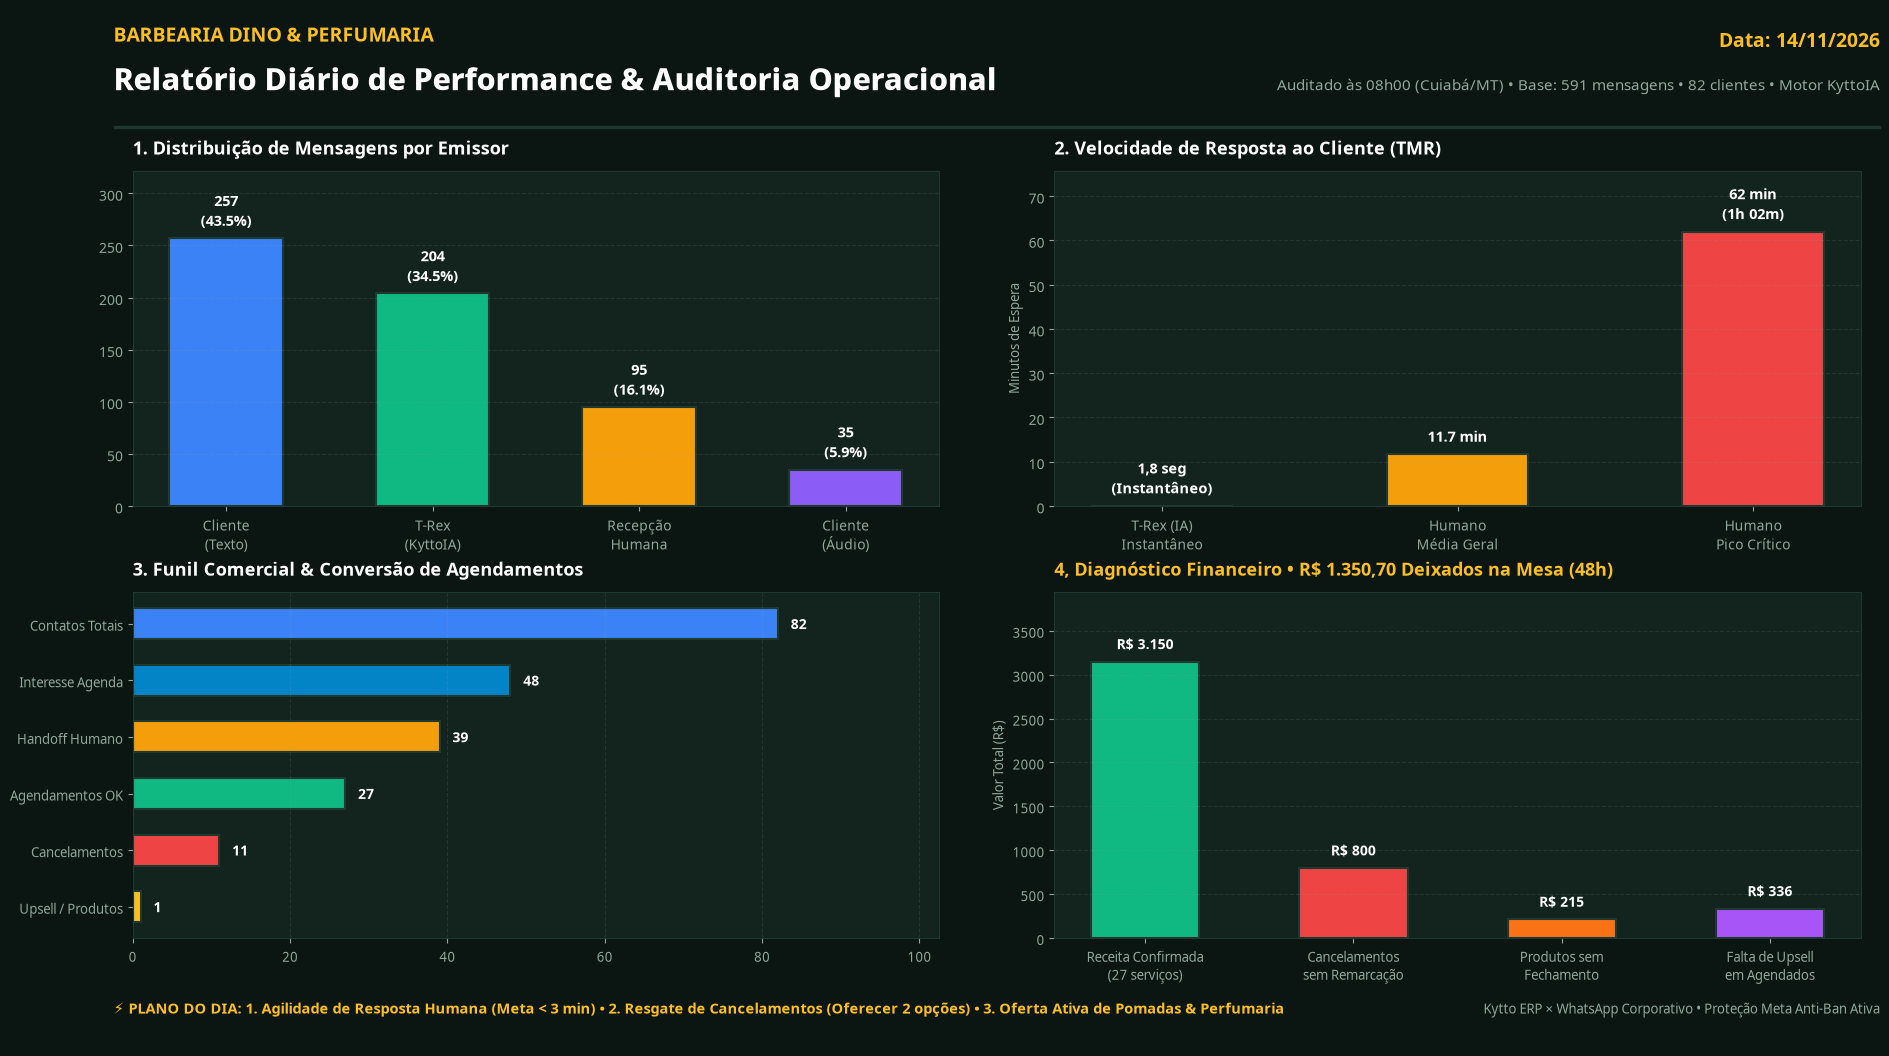
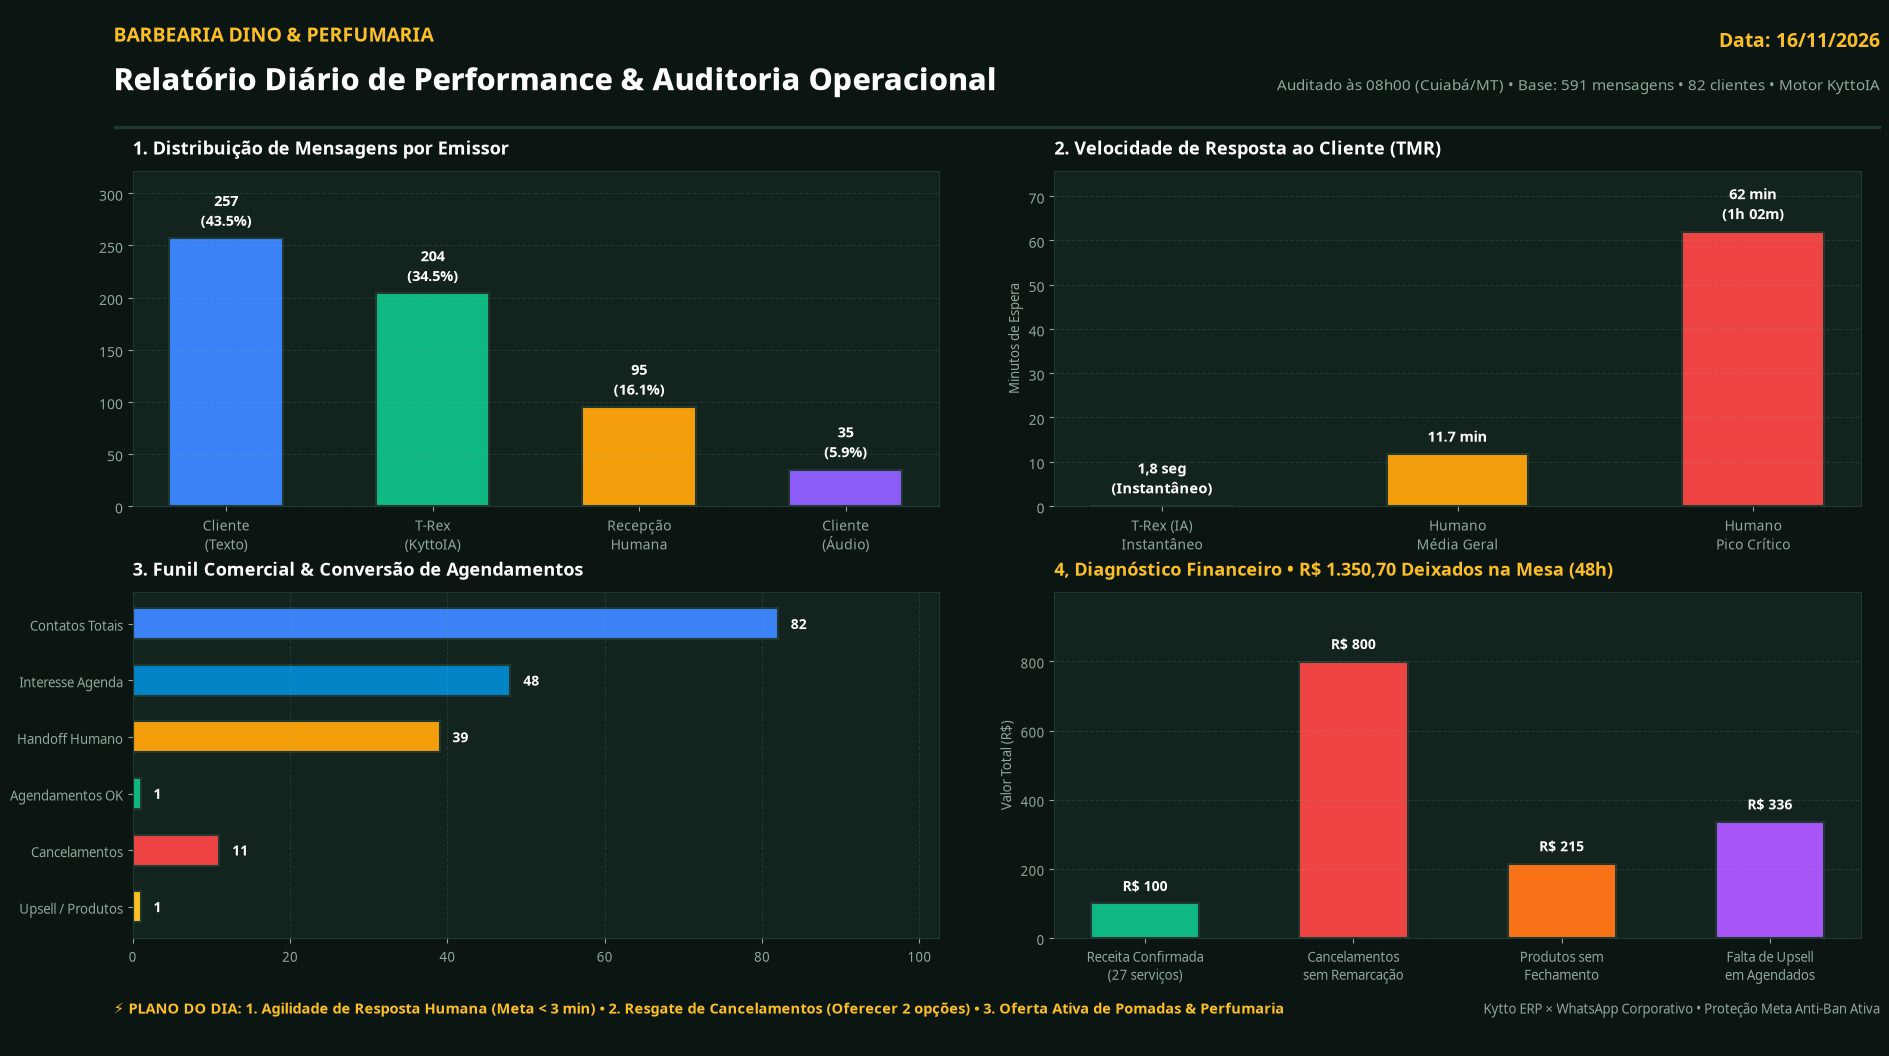
test(comanda): garantir inicializacao de servico no teste de preco alterado

diff --git a/test/dino-comanda-valor-alterado.test.js b/test/dino-comanda-valor-alterado.test.js
@@ -4,9 +4,19 @@ import * as barbeariaErpKytto from '../app/barbearia-erp-kytto.js';
 
 const EMPRESA_ID = 'd0d0ac01-8e50-4b61-8c79-de4aaa916da6'; // Barbearia Dino
 
-test('Comanda Barbearia: preserva preço customizado de serviço alterado na abertura', () => {
+function obterOuCriarServico() {
   const servicos = barbeariaErpKytto.listarServicos(EMPRESA_ID);
   const corte = servicos.find((s) => s.ativo !== false) || servicos[0];
+  if (corte) return corte;
+  return barbeariaErpKytto.criarServico(EMPRESA_ID, {
+    nome: 'Corte Cabelo e Barba Dino',
+    preco: 70,
+    duracaoMinutos: 45,
+  });
+}
+
+test('Comanda Barbearia: preserva preço customizado de serviço alterado na abertura', () => {
+  const corte = obterOuCriarServico();
   assert.ok(corte, 'Deve existir ao menos um serviço');
 
   const precoCadastro = Number(corte.preco || 0);
@@ -66,8 +76,7 @@ test('Comanda Barbearia: preserva preço customizado de produto de revenda alter
 });
 
 test('Comanda Barbearia: atualizarItemComandaBarbearia aceita valor/precoUnitario e recalcula totais', () => {
-  const servicos = barbeariaErpKytto.listarServicos(EMPRESA_ID);
-  const servico = servicos[0];
+  const servico = obterOuCriarServico();
 
   const comanda = barbeariaErpKytto.criarComandaBarbearia(EMPRESA_ID, {
     clienteNome: 'Cliente Ajuste Valor',
